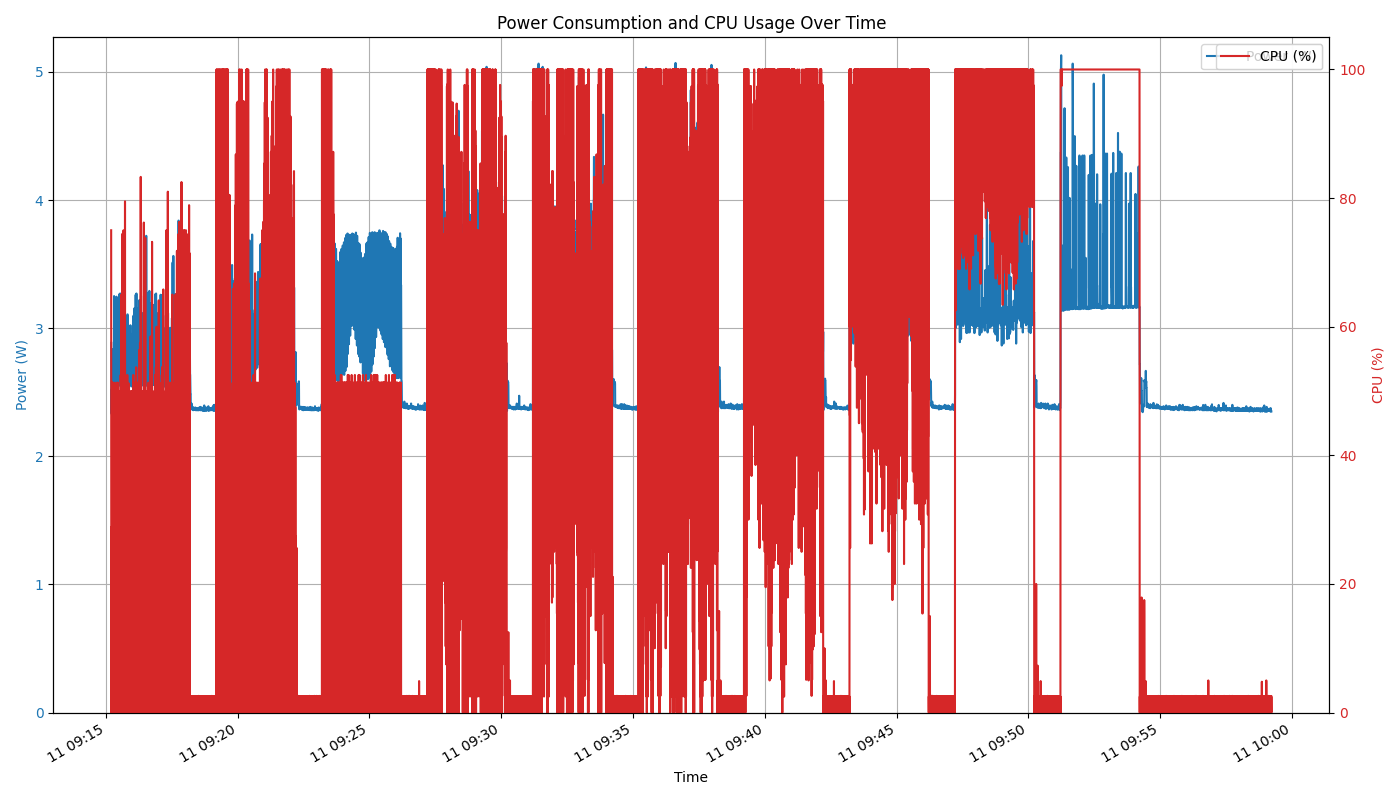
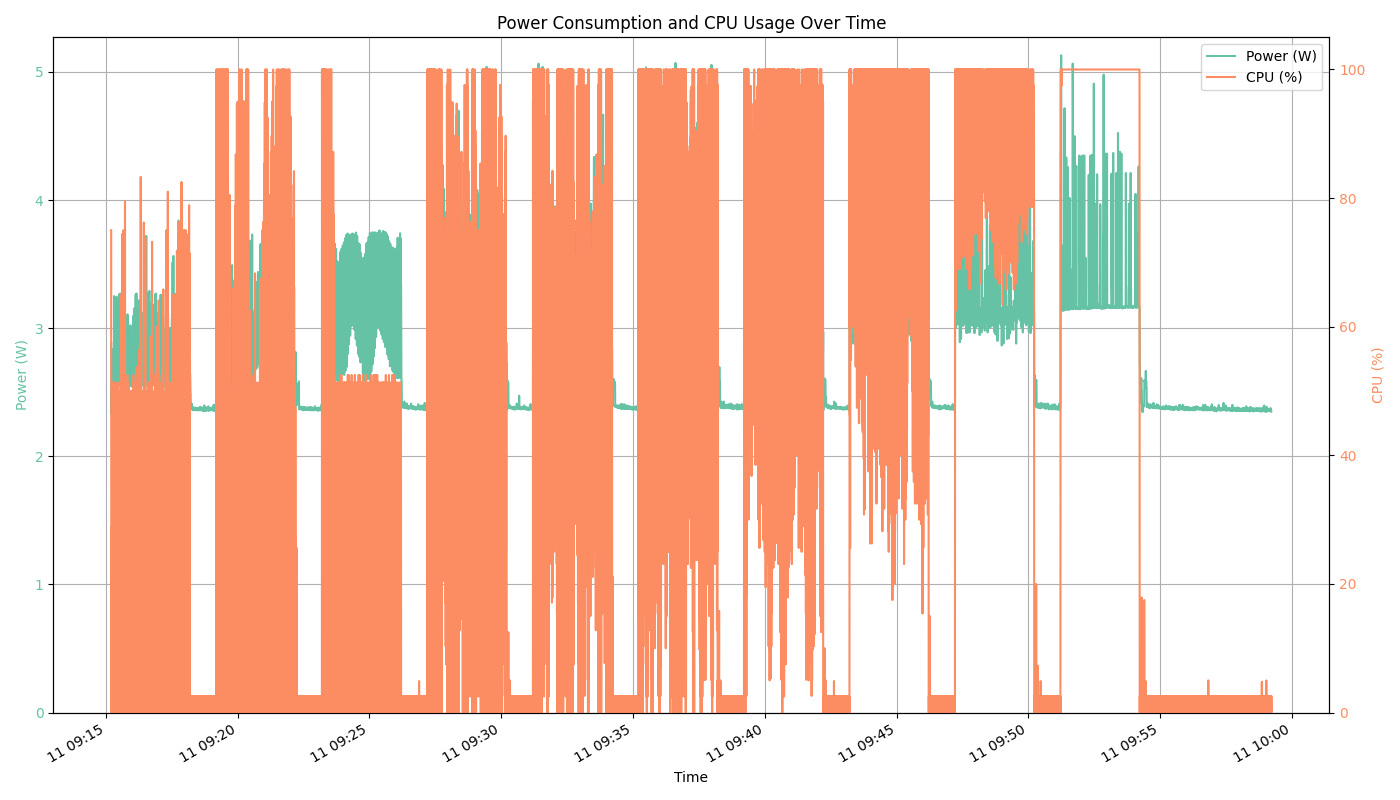
Color palette

diff --git a/plot_cpu_power_usage.py b/plot_cpu_power_usage.py
@@ -25,21 +25,24 @@ def plot_power_cpu_usage(power_file, cpu_file, output_file):
     fig, ax1 = plt.subplots(figsize=(14, 8))
 
     # Plot Power (W) on the primary y-axis
-    color = 'tab:blue'
+    color = sns.color_palette("Set2")[0]
     ax1.set_xlabel('Time')
     ax1.set_ylabel('Power (W)', color=color)
-    sns.lineplot(x='Unix time', y='Power (W)', data=power_df, ax=ax1, color=color, label='Power (W)')
+    line1 = sns.lineplot(x='Unix time', y='Power (W)', data=power_df, ax=ax1, color=color, label='Power (W)')
     ax1.tick_params(axis='y', labelcolor=color)
     ax1.grid(True)
     ax1.set_ylim(0)
+    ax1.get_legend().remove()
 
     # Create a secondary y-axis sharing the same x-axis
     ax2 = ax1.twinx()
-    color = 'tab:red'
+    color = sns.color_palette("Set2")[1]
     ax2.set_ylabel('CPU (%)', color=color)
-    sns.lineplot(x='Timestamp (s)', y='CPU (%)', data=cpu_df, ax=ax2, color=color, label='CPU (%)')
+    line2 = sns.lineplot(x='Timestamp (s)', y='CPU (%)', data=cpu_df, ax=ax2, color=color, label='CPU (%)')
     ax2.tick_params(axis='y', labelcolor=color)
     ax2.set_ylim(0)
+    ax2.get_legend().remove()
+
 
     # Set the x-axis labels and rotate them for better readability
     ax1.set_xlabel('Time')
@@ -47,6 +50,11 @@ def plot_power_cpu_usage(power_file, cpu_file, output_file):
 
     # Set the title of the plot
     plt.title('Power Consumption and CPU Usage Over Time')
+
+
+    lines = line1.get_lines() + line2.get_lines()
+    labels = [l.get_label() for l in lines]
+    ax1.legend(lines, labels, loc='upper right')
 
     # Save the plot to the specified file
     fig.tight_layout()
